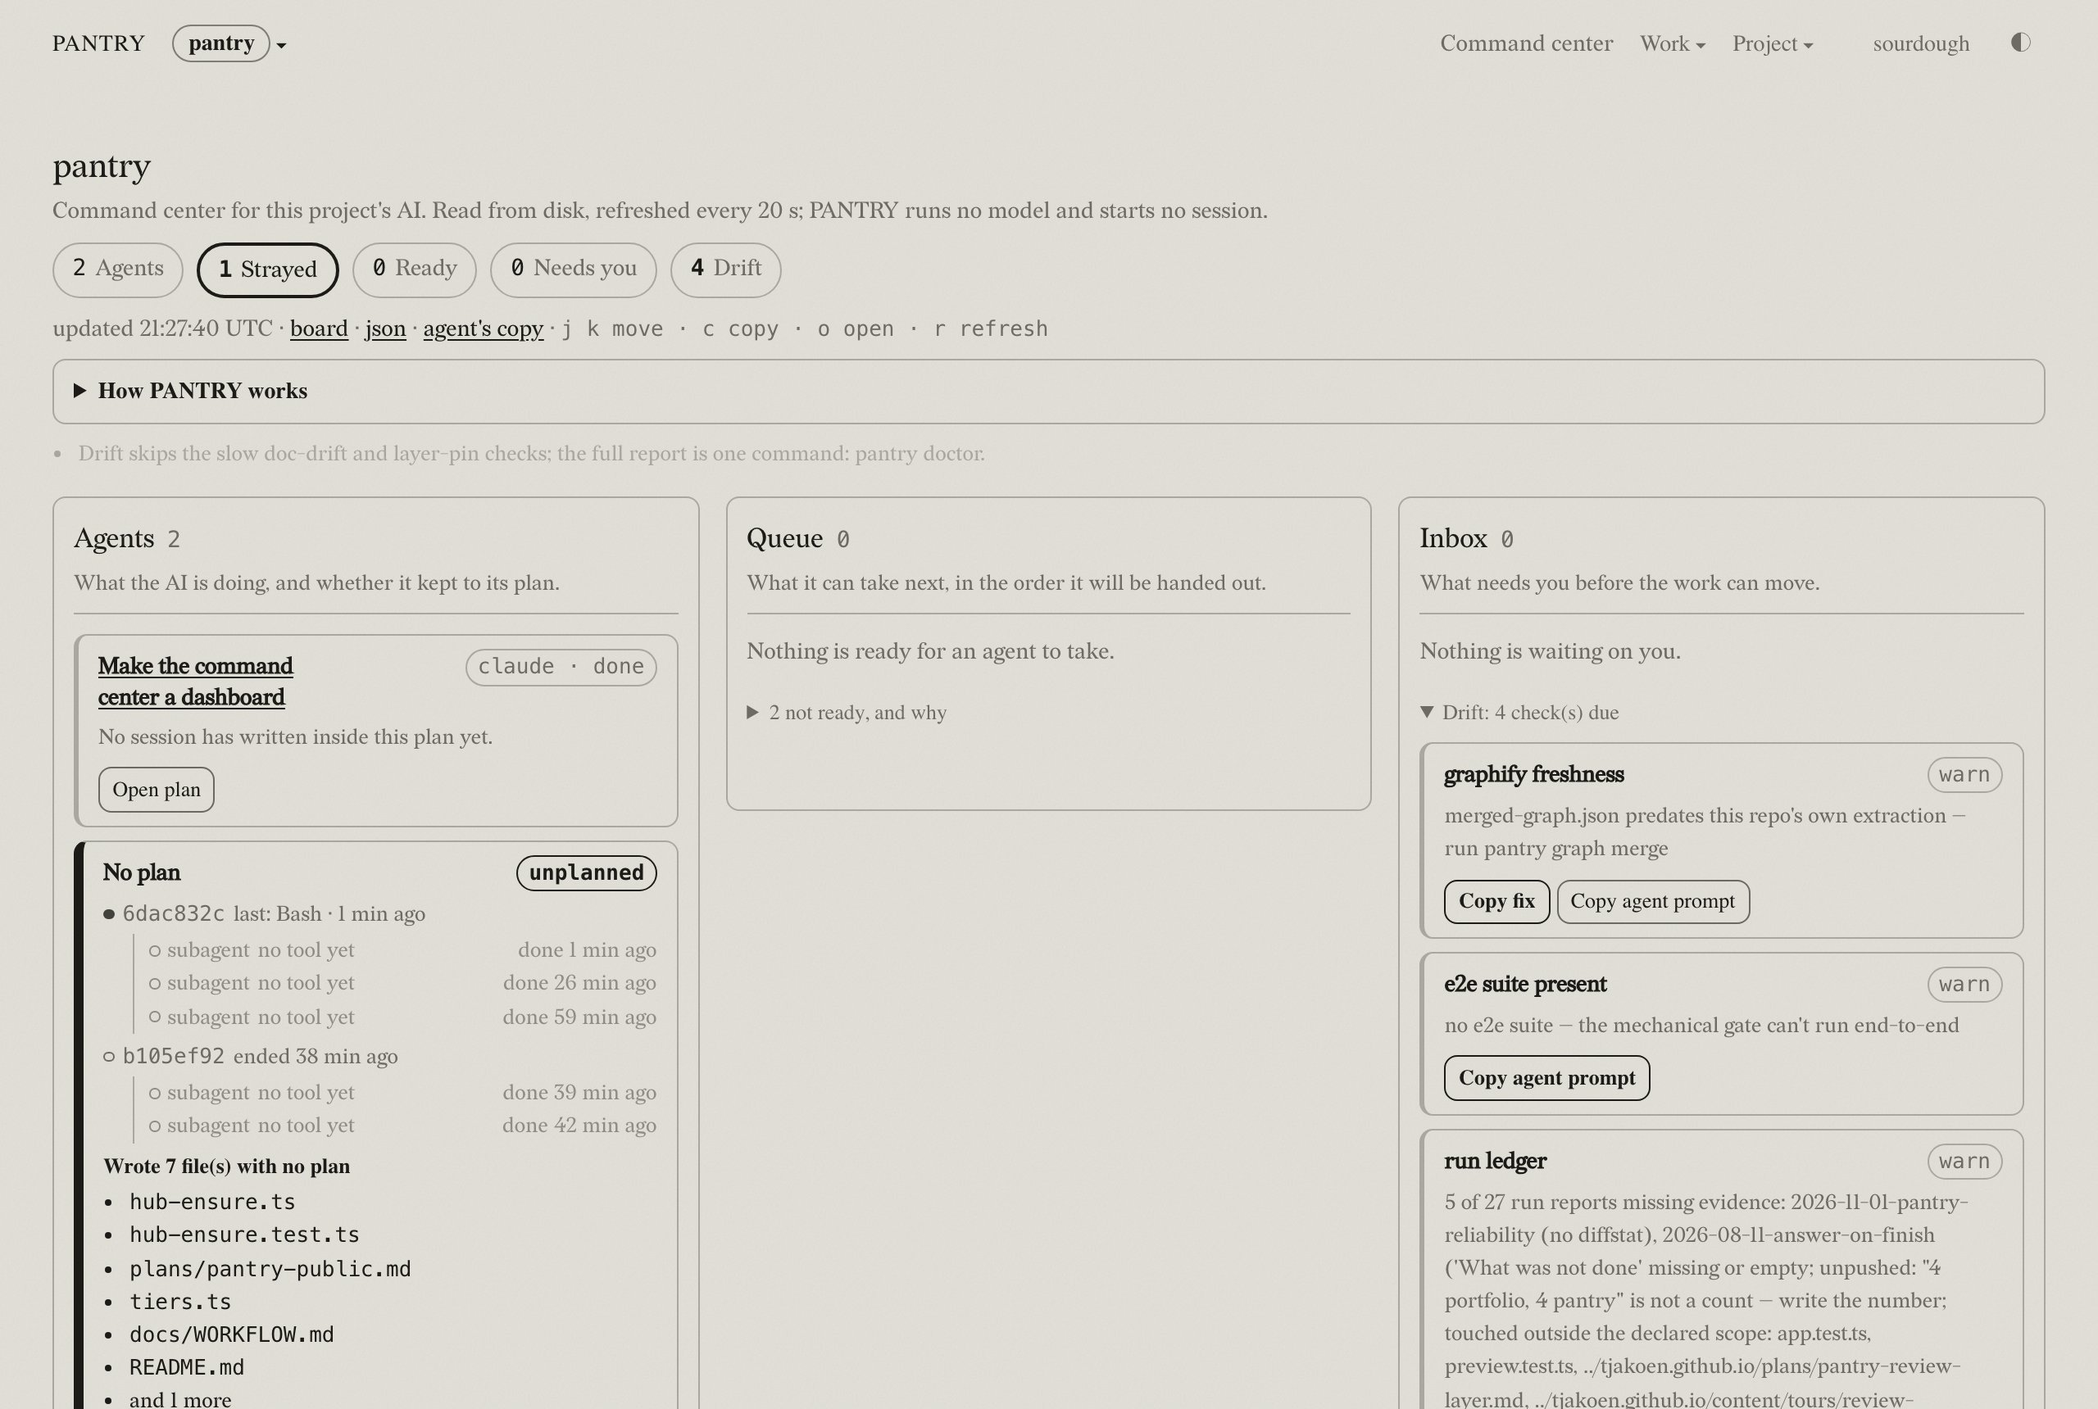
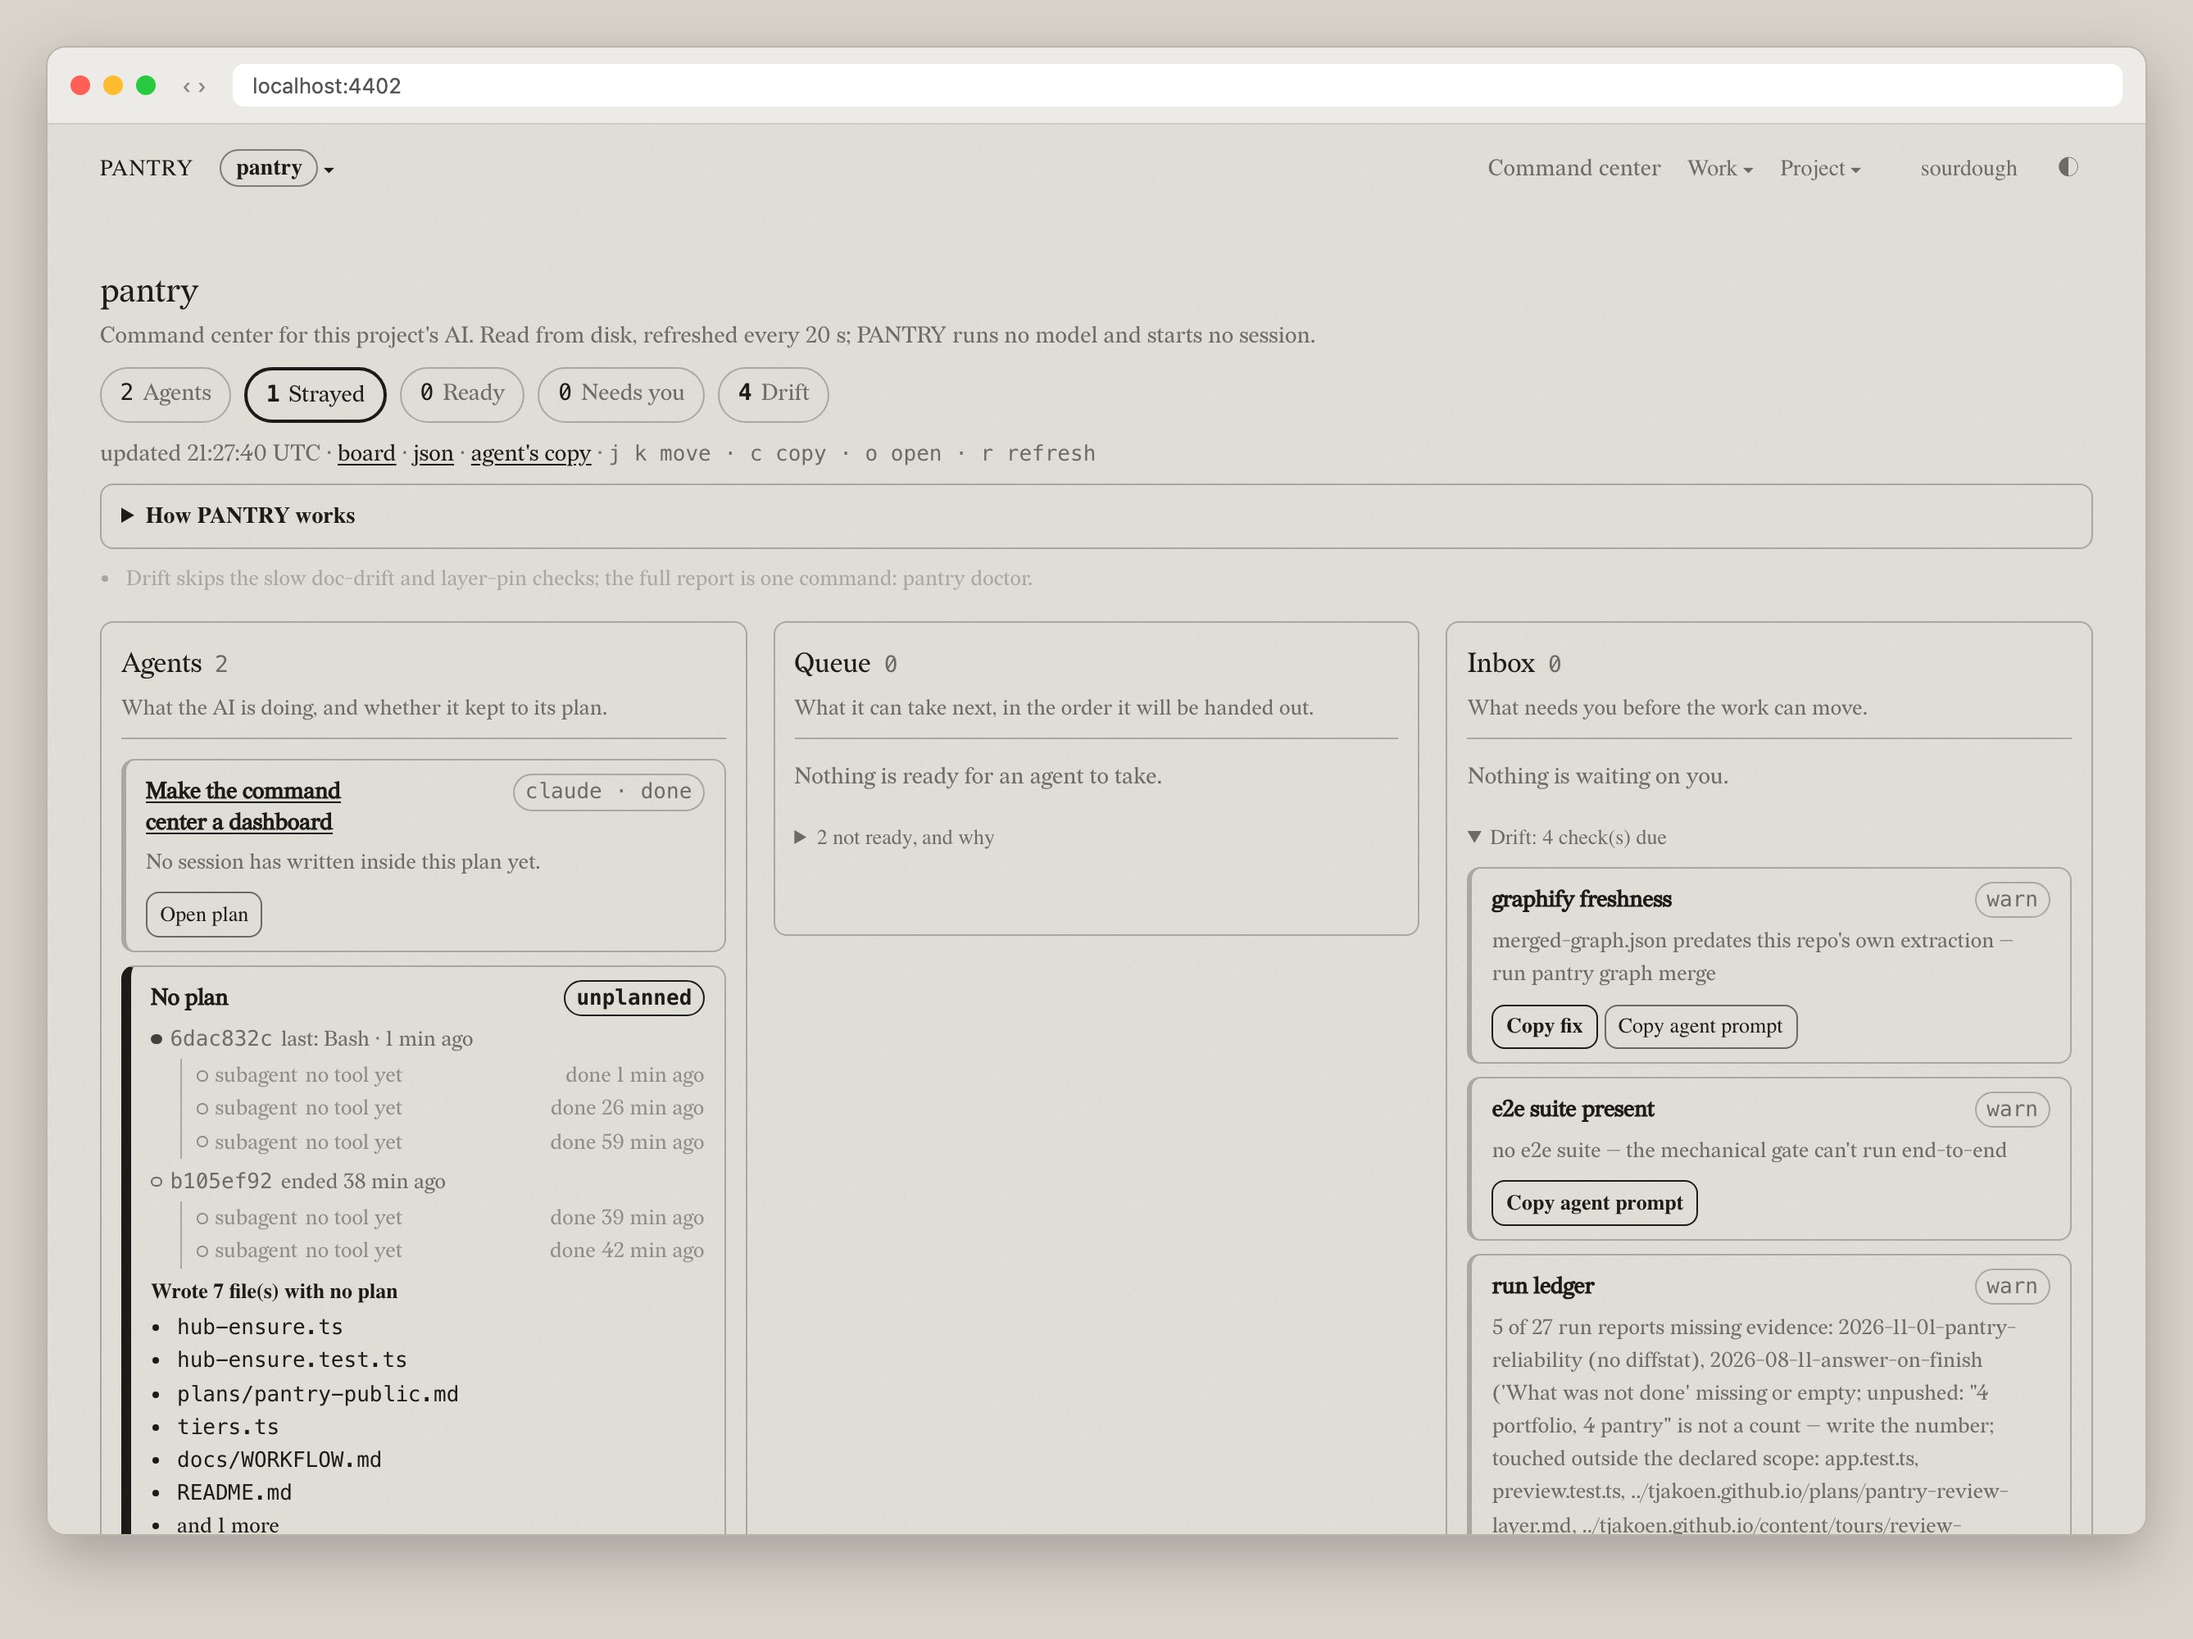
🖼 Frame the PANTRY screenshots as a browser tab and an app window
- Put the old command center in a browser frame at its localhost address
- Put the new dashboard in a PANTRY app window frame
- Update the image sizes, alt text and captions to match

diff --git a/content/notes/pantry-beside-the-work.md b/content/notes/pantry-beside-the-work.md
@@ -242,9 +242,9 @@ whose job is keeping work accountable held the work on itself to account, and I 
 that than crop it out.
 
 <figure class="shot">
-  <img class="shot__img" src="/media/pantry/command-center.jpg" width="2560" height="1720" loading="lazy" data-lightbox
-       alt="PANTRY's command center for the pantry repository itself. Chips across the top read 2 Agents, 1 Strayed, 0 Ready, 0 Needs you and 4 Drift. The Agents column shows the dashboard plan done by Claude, and below it a No plan card marked unplanned listing seven files written with no plan, including hub-ensure.ts, tiers.ts and docs/WORKFLOW.md. The Queue is empty, and the Inbox holds four drift warnings with Copy fix buttons.">
-  <figcaption class="shot__cap">PANTRY's command center on the PANTRY repository, while the four sessions ran. This is the layout from before the new dashboard, shown below; the Strayed card is the sessions that built PANTRY writing outside their plans.</figcaption>
+  <img class="shot__img" src="/media/pantry/command-center.jpg" width="2676" height="2000" loading="lazy" data-lightbox
+       alt="A browser window at localhost:4402 showing PANTRY's command center for the pantry repository itself. Chips across the top read 2 Agents, 1 Strayed, 0 Ready, 0 Needs you and 4 Drift. The Agents column shows the dashboard plan done by Claude, and below it a No plan card marked unplanned listing seven files written with no plan, including hub-ensure.ts, tiers.ts and docs/WORKFLOW.md. The Queue is empty, and the Inbox holds four drift warnings with Copy fix buttons.">
+  <figcaption class="shot__cap">PANTRY's command center on the PANTRY repository, while the four sessions ran, still a website in a browser tab I had to remember to open. This is the layout from before the new dashboard, shown below; the Strayed card is the sessions that built PANTRY writing outside their plans.</figcaption>
 </figure>
 
 > PANTRY only works if it is already open when the work starts. Everything since November is that
@@ -260,9 +260,9 @@ a strip down the edge of the screen. That merged as [tjakoen/pantry#4](https://g
 ```
 
 <figure class="shot">
-  <img class="shot__img" src="/media/pantry/dashboard.jpg" width="2560" height="1720" loading="lazy" data-lightbox
-       alt="The new PANTRY dashboard on the pantry repository. A sidebar lists projects, with pantry selected, and views for Now, Plans and Project. Four tiles across the top read 0 Needs you, 4 Working, 0 Ready and 4 Drift. Below, Needs you says nothing is waiting, Working now lists the plans for the Claude pane, the dashboard and the drivable window with their sessions and subagents, and Up next is empty.">
-  <figcaption class="shot__cap">The dashboard that replaced it, on the same repository. Needs you leads, and every plan in Working now carries the sessions and subagents that ran under it. Only some of my projects are shown in the sidebar.</figcaption>
+  <img class="shot__img" src="/media/pantry/dashboard.jpg" width="2676" height="2000" loading="lazy" data-lightbox
+       alt="The PANTRY desktop app window showing the new dashboard on the pantry repository. A sidebar lists projects, with pantry selected, and views for Now, Plans and Project. Four tiles across the top read 0 Needs you, 4 Working, 0 Ready and 4 Drift. Below, Needs you says nothing is waiting, Working now lists the plans for the Claude pane, the dashboard and the drivable window with their sessions and subagents, and Up next is empty.">
+  <figcaption class="shot__cap">The dashboard that replaced it, on the same repository, now in a window of its own. Needs you leads, and every plan in Working now carries the sessions and subagents that ran under it. Only some of my projects are shown in the sidebar.</figcaption>
 </figure>
 
 **The desktop app.** A Tauri app, picked over Electron because it uses the system webview instead
